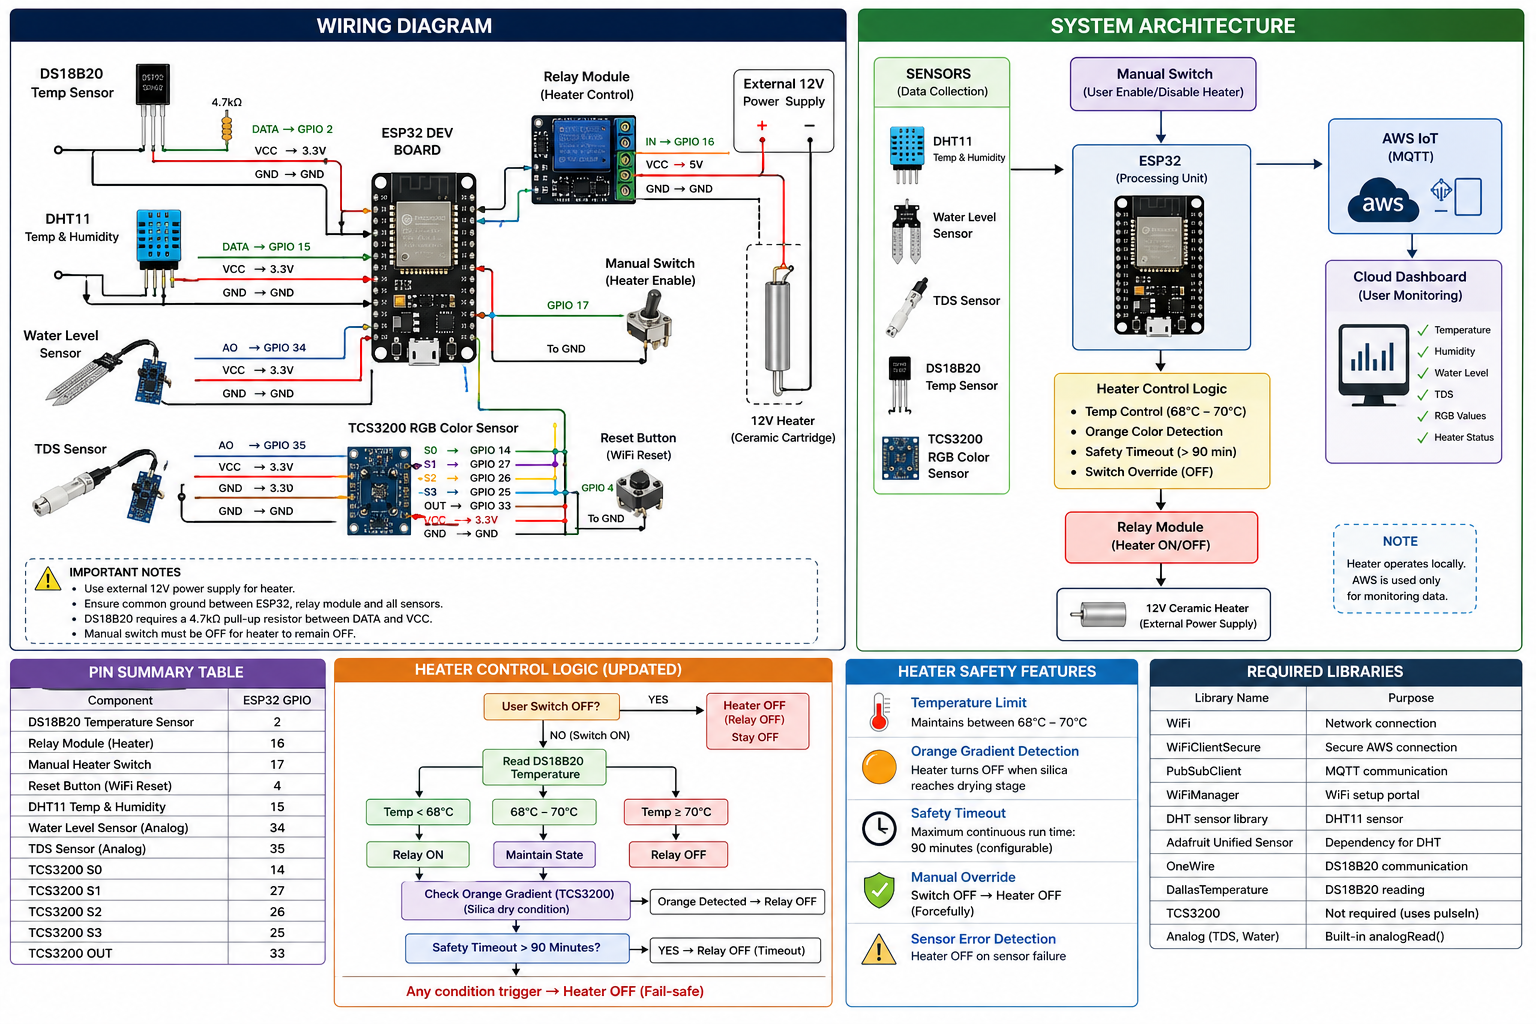
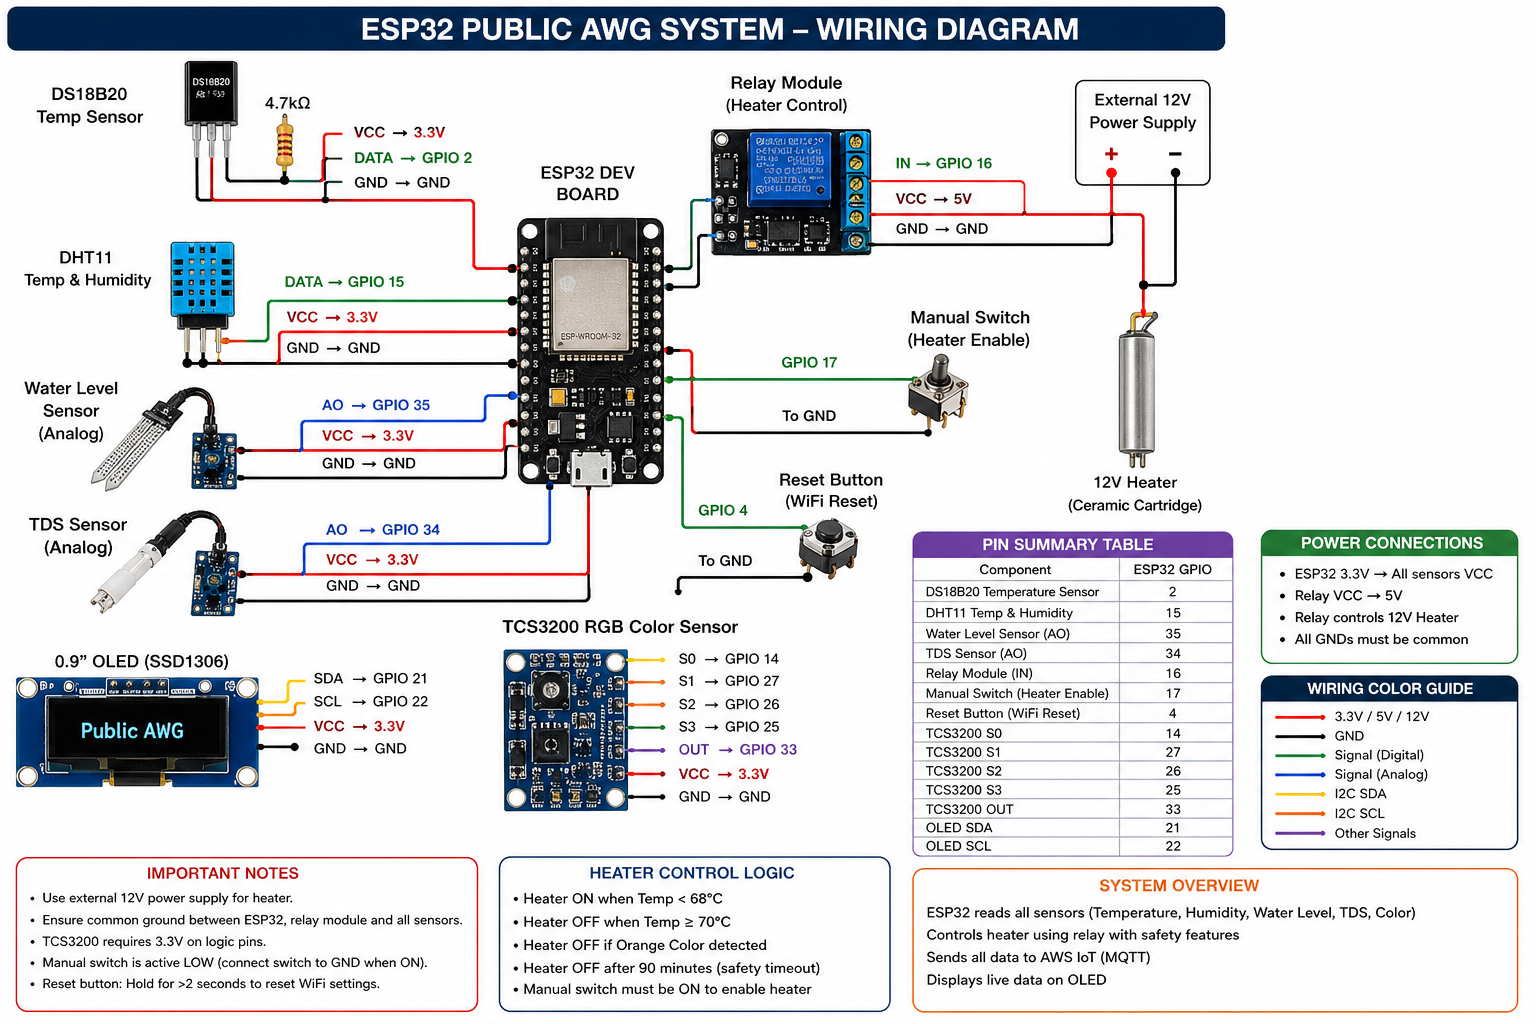
added oled display

diff --git a/Public/ReadMe.md b/Public/ReadMe.md
@@ -1,48 +1,45 @@
-# 📌 ESP32 Pin Configuration (Updated)
+# 📌 ESP32 Pin Configuration (Final)
 
-This document describes all GPIO connections used in the project, including **manual heater control and safety logic updates**.
+This document defines all GPIO connections used in the system, including heater control, sensors, OLED display, and safety logic.
 
 ---
 
-## 🔥 Heater Control System (Updated)
+## 🔥 Heater Control System
 
 ### 🌡 DS18B20 Temperature Sensor
 
 * **DATA → GPIO 2**
 * **VCC → 3.3V**
 * **GND → GND**
-* ⚠️ Use a **4.7kΩ resistor** between DATA and VCC
+* ⚠️ **4.7kΩ pull-up resistor required** (DATA ↔ VCC)
 
 ---
 
-### 🔌 Relay Module (12V Heater Control)
+### 🔌 Relay Module (Heater Control)
 
 * **IN → GPIO 16**
-* **VCC → 5V (or 3.3V depending on module)**
+* **VCC → 5V** (recommended)
 * **GND → GND**
 
-⚠️ Notes:
-
-* Controls **12V ceramic cartridge heater**
-* Uses **external 12V power supply**
-* ESP32 only sends control signal
+⚠️ **Notes:**
+* Controls **12V ceramic heater**
+* Uses **external 12V supply**
+* ESP32 provides only control signal
 
 ---
 
-### 🔘 Manual Heater Switch (NEW)
+### 🔘 Manual Heater Switch
 
-* **Pin → GPIO 17**
-* **Other side → GND**
+* **GPIO 17** → Switch → **GND**
 * Mode: `INPUT_PULLUP`
 
-### Function:
-
-* Switch OFF → Heater **always OFF**
-* Switch ON → Heater control logic activated
+**Function:**
+* **LOW (Pressed)** → Heater Enabled
+* **HIGH** → Heater Disabled (Forced OFF)
 
 ---
 
-## 🌡 Environment Sensors
+## 🌡 Environmental Sensors
 
 ### 🌡 DHT11 (Temperature & Humidity)
 
@@ -52,15 +49,15 @@ This document describes all GPIO connections used in the project, including **ma
 
 ---
 
-### 💧 Water Level Sensor
+### 💧 Water Level Sensor (Analog)
 
-* **Analog OUT → GPIO 34**
+* **AO → GPIO 35**
 
 ---
 
-### 🧪 TDS Sensor
+### 🧪 TDS Sensor (Analog)
 
-* **Analog OUT → GPIO 35**
+* **AO → GPIO 34**
 
 ---
 
@@ -68,23 +65,34 @@ This document describes all GPIO connections used in the project, including **ma
 
 | Pin | ESP32 GPIO |
 | --- | ---------- |
-| S0  | GPIO 14    |
-| S1  | GPIO 27    |
-| S2  | GPIO 26    |
-| S3  | GPIO 25    |
-| OUT | GPIO 33    |
+| S0  | 14         |
+| S1  | 27         |
+| S2  | 26         |
+| S3  | 25         |
+| OUT | 33         |
+
+⚠️ **Note:**
+* Works on 3.3V logic
+* Frequency output read using `pulseIn()`
+
+---
+
+## 🖥 OLED Display (SSD1306 – I2C)
+
+* **SDA → GPIO 21**
+* **SCL → GPIO 22**
+* **VCC → 3.3V**
+* **GND → GND**
 
 ---
 
 ## 🔘 Reset Button (WiFi Reset)
 
-* **Pin → GPIO 4**
-* **Other side → GND**
+* **GPIO 4** → Button → **GND**
 * Mode: `INPUT_PULLUP`
 
-### Function:
-
-* Press and hold **> 2 seconds**
+**Function:**
+* Press **> 2 seconds**
 * Clears WiFi credentials
 * Restarts ESP32
 
@@ -92,128 +100,118 @@ This document describes all GPIO connections used in the project, including **ma
 
 ## 📡 Summary Table
 
-| Component          | GPIO |
-| ------------------ | ---- |
-| DS18B20            | 2    |
-| Relay              | 16   |
-| Manual Switch      | 17   |
-| Reset Button       | 4    |
-| DHT11              | 15   |
-| Water Level Sensor | 34   |
-| TDS Sensor         | 35   |
-| TCS3200 S0         | 14   |
-| TCS3200 S1         | 27   |
-| TCS3200 S2         | 26   |
-| TCS3200 S3         | 25   |
-| TCS3200 OUT        | 33   |
+| Component | GPIO |
+| :--- | :--- |
+| DS18B20 | 2 |
+| Relay | 16 |
+| Manual Switch | 17 |
+| Reset Button | 4 |
+| DHT11 | 15 |
+| Water Level | 35 |
+| TDS Sensor | 34 |
+| TCS3200 S0 | 14 |
+| TCS3200 S1 | 27 |
+| TCS3200 S2 | 26 |
+| TCS3200 S3 | 25 |
+| TCS3200 OUT | 33 |
+| OLED SDA | 21 |
+| OLED SCL | 22 |
 
 ---
 
-## ⚙️ Heater Control Logic (Updated)
-
-The heater system now follows **hybrid control (manual + automatic)**:
+## ⚙️ Heater Control Logic (Final)
 
 ### 🔘 Manual Control
-
-* Heater will **NOT start automatically**
-* User must enable using switch
+* Heater works only if switch is ON
+* If OFF → Heater is always OFF
 
 ---
 
 ### 🌡 Temperature Control
-
-* **< 68°C → Heater ON**
-* **≥ 70°C → Heater OFF**
-
----
-
-### 🎨 Color-Based Control (NEW)
-
-* Detects **orange gradient (not exact color)**
-* When silica reaches drying stage → Heater OFF
+* **Temp < 68°C** → Heater ON
+* **Temp ≥ 70°C** → Heater OFF
 
 ---
 
-### ⏱ Safety Timeout (NEW)
+### 🎨 Color-Based Safety (Silica Detection)
+* Detects orange gradient (not exact RGB)
+* Indicates silica drying completion
+* 👉 Heater is turned OFF
 
-* Maximum continuous run time: **90 minutes**
-* After timeout → Heater OFF (even if switch ON)
+---
+
+### ⏱ Safety Timeout
+* Max runtime: **90 minutes**
+* After timeout → Heater OFF
 
 ---
 
 ### 🔒 Fail-Safe Conditions
-
 Heater turns OFF if:
-
-* Sensor error
-* Switch OFF
-* Timeout reached
-* Orange gradient detected
-
----
-
-## ⚠️ Important Notes
-
-* Use **external power supply** for heater
-* Maintain **common ground**
-* DS18B20 requires pull-up resistor
-* Manual switch gives user full control over power usage
+❌ Sensor failure
+❌ Manual switch OFF
+❌ Timeout reached
+❌ Orange color detected
 
 ---
 
-# 📦 Required Libraries (ESP32 Project)
+## 📺 OLED Display Logic
 
-## 🔧 Core Libraries
-
-* WiFi (built-in)
-* WiFiClientSecure (built-in)
-* PubSubClient → MQTT
-* WiFiManager → WiFi portal
+* Boot screen → "Public AWG"
+* Displays sequentially:
+  * Temperature
+  * Humidity
+  * Water Level
+  * TDS
+  * Water Safety
 
 ---
 
-## 🌡 Sensor Libraries
+## 📦 Required Libraries
 
-* DHT sensor library (Adafruit)
+### 🔧 Core
+* WiFi
+* WiFiClientSecure
+* PubSubClient
+* WiFiManager
+
+### 🌡 Sensors
+* DHT
 * Adafruit Unified Sensor
 * OneWire
 * DallasTemperature
 
----
+### 📺 Display
+* Adafruit_GFX
+* Adafruit_SSD1306
 
-## 🎨 Others
-
+### 🎨 Others
 * TCS3200 → No library required
-* Analog sensors → built-in
-
----
-
-## 📋 Summary
-
-| Library           | Purpose               |
-| ----------------- | --------------------- |
-| WiFi              | Network               |
-| WiFiClientSecure  | AWS secure connection |
-| PubSubClient      | MQTT                  |
-| WiFiManager       | Setup portal          |
-| DHT               | Temp/Humidity         |
-| OneWire           | DS18B20               |
-| DallasTemperature | DS18B20               |
+* Analog sensors → Built-in
 
 ---
 
 ## 🚀 System Overview
 
-* AWS → Receives sensor data (unchanged)
-* Heater → Fully local control
-* User → Decides when to activate
-* System → Ensures safety and efficiency
+* **ESP32 reads:**
+  * Temperature
+  * Humidity
+  * Water level
+  * TDS
+  * Color
+* **Controls:**
+  * Heater (locally)
+* **Sends:**
+  * Data to AWS IoT (MQTT)
+* **Displays:**
+  * Live data on OLED
 
 ---
 
-✔ Manual + Smart control
-✔ Safe heater operation
-✔ Cloud-independent heating logic
-✔ Ready for real-world deployment
+## ⚠️ Important Notes (Refined)
+* Use external 12V power for heater
+* Ensure common ground across all modules
+* DS18B20 requires pull-up resistor
+* TDS sensor must not exceed 3.3V
+* Avoid powering relay directly from ESP32 if unstable
 
----